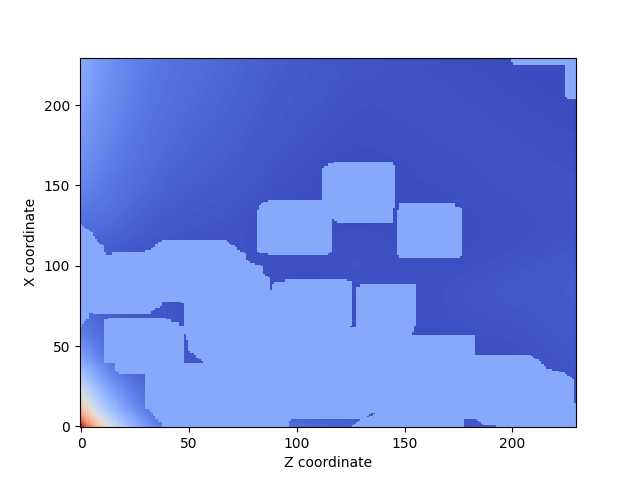
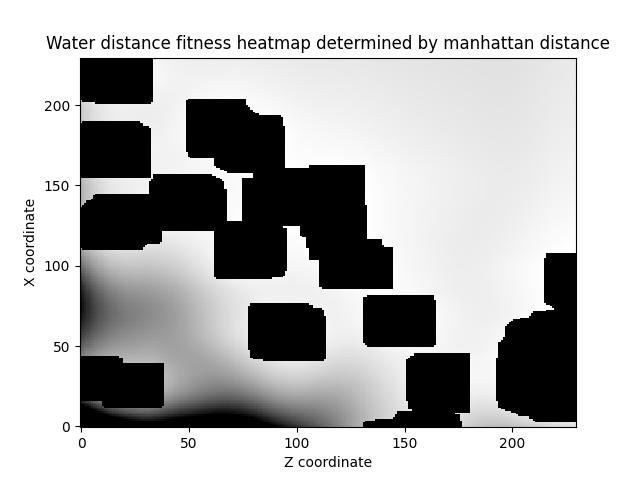
Added improved graphing function, and house distance function

diff --git a/classes/Graph.py b/classes/Graph.py
@@ -133,7 +133,7 @@ class graph:
                     self.tile_map[x_value][z_value].manhattan_distance_to_water,
                 )
         value = cum_distance / (x_value * z_value)
-        return value
+        return min(value, MAXIMUM_WATER_DISTANCE_PENALTY)
 
     def calculate_distance_from_houses(
         self, location: GridLocation, building_radius=MAX_BUILDING_RADIUS
@@ -154,7 +154,10 @@ class graph:
         )
 
         if PENALTY:
-            return MAXIMUM_HOUSE_DISTANCE_PENALTY
+            # calculate the closest house centre.
+            nearest_location = calculate_nearest_house(g=self, location=location)
+            adjusted_distance = manhattan(nearest_location, location)
+            return MAXIMUM_HOUSE_DISTANCE_PENALTY - adjusted_distance
 
         cum_distance = 0
         for building_location in self.buildings_centres:
@@ -163,13 +166,13 @@ class graph:
         value = cum_distance / len(self.buildings_centres)
         if value == 0:
             print("Yikes")
-        return value
+        return min(value, MAXIMUM_HOUSE_DISTANCE_PENALTY)
 
     def _calculate_penalty(self, location, building_radius, type: fitness_functions):
         coords = self._calc_coordinates(location, building_radius)
 
         if type == fitness_functions.HOUSE_DISTANCE:
-            for building_coords in self.buildings_coords:
+            for building_coords in self.get_buildings_coords():
                 if rectangles_overlap(coords, building_coords):
                     return True
 
@@ -251,6 +254,15 @@ class graph:
                 g=self,
             )
 
+    def get_building_centres(self) -> list:
+        return list(set(self.buildings_centres.copy()))
+
+    def get_building_tiles(self) -> list:
+        return list(set(self.building_tiles.copy()))
+
+    def get_buildings_coords(self) -> list:
+        return list(set(self.buildings_coords.copy()))
+
 
 def manhattan(a_value, b_value):
     """Calculate manhattan distance value between two vectors
@@ -276,7 +288,7 @@ def surface_plot(matrix, **kwargs):
 
 
 def show_plt(m):
-    (fig, ax, surf) = surface_plot(m, cmap=plt.cm.coolwarm)
+    (fig, ax, surf) = surface_plot(m, cmap=plt.cm.binary)
 
     fig.colorbar(surf)
 
@@ -287,17 +299,18 @@ def show_plt(m):
     plt.show()
 
 
-def show_2d_heatmap(arr: np.array, filename: str):
+def show_2d_heatmap(arr: np.array, filename: str, title: str = "test123"):
     arr = arr.T  # transpose x and z axis
     heatmap, ax = plt.subplots()
     im = ax.imshow(
         arr,
-        cmap=plt.cm.coolwarm,
+        cmap=plt.cm.binary,
         interpolation="nearest",
         origin="lower",
         aspect="auto",
     )
     ax.set(xlabel="Z coordinate", ylabel="X coordinate")
+    ax.set_title(title)
     heatmap.savefig(IMAGE_DIR_FOLD + "/" + filename + ".png")
 
 
@@ -316,7 +329,8 @@ def run_fitness_for_all_coords(fitness: fitness_functions, g: graph, show_plot=F
         w_b_m = mm_scale(w_b_m)
         if show_plot:
             show_plot(w_b_m)
-        show_2d_heatmap(w_b_m, fitness.value)
+        title: str = "Water Boolean heatmap"
+        show_2d_heatmap(w_b_m, fitness.value, title)
         return w_b_m
 
 
@@ -334,34 +348,42 @@ def run_bounded_fitness_for_all_coords(
     show_plot=False,
 ):
     fitness_map = []
-    # adjust the house fitness map with a mock house at 20, 20), with a build radius of 7
-    location = (20, 20)
-    coords: Tuple[int, int, int, int] = (
-        cut_out_bounds(location[0] - building_radius, g.x),
-        cut_out_bounds(location[1] - building_radius, g.z),
-        cut_out_bounds(location[0] + building_radius, g.x),
-        cut_out_bounds(location[1] + building_radius, g.z),
+
+    add_mock_location(
+        g=g,
+        building_radius=building_radius,
+        location=(20, 20),
     )
-    building_tiles = get_build_coord(location=location, building_radius=building_radius)
-    g.building_tiles.extend(building_tiles)
-    g.buildings_centres.append(location)
-    g.buildings_coords.append(coords)
+
+    add_mock_location(
+        g=g,
+        building_radius=building_radius,
+        location=(200, 200),
+    )
+
     for x_value in range(building_radius, g.x - building_radius):
         tile = []
         for z_value in range(building_radius, g.z - building_radius):
             if fitness == fitness_functions.WATER_DISTANCE:
+                title: str = (
+                    "Water distance fitness heatmap determined by manhattan distance"
+                )
                 tile.append(
                     g.calcuate_water_distance(
                         (x_value, z_value), building_radius=building_radius
                     )
                 )
             if fitness == fitness_functions.HOUSE_DISTANCE:
+                title: str = (
+                    "House distance fitness heatmap determined by manhattan distance"
+                )
                 tile.append(
                     g.calculate_distance_from_houses(
                         (x_value, z_value), building_radius=building_radius
                     )
                 )
             if fitness == fitness_functions.FLATNESS:
+                title: str = "Flatness fitness heatmap determined by standard deviation"
                 tile.append(
                     g.calculate_flatness_from_location(
                         (x_value, z_value), building_radius=building_radius
@@ -372,8 +394,21 @@ def run_bounded_fitness_for_all_coords(
     f_m = mm_scale(f_m)
     if show_plot:
         show_plt(f_m)
-    show_2d_heatmap(f_m, fitness.value)
+    show_2d_heatmap(f_m, fitness.value, title)
     return f_m
+
+
+def add_mock_location(g: graph, building_radius: int, location: tuple[int, int]):
+    coords: Tuple[int, int, int, int] = (
+        cut_out_bounds(location[0] - building_radius, g.x),
+        cut_out_bounds(location[1] - building_radius, g.z),
+        cut_out_bounds(location[0] + building_radius, g.x),
+        cut_out_bounds(location[1] + building_radius, g.z),
+    )
+    building_tiles = get_build_coord(location=location, building_radius=building_radius)
+    g.building_tiles.extend(building_tiles)
+    g.buildings_centres.append(location)
+    g.buildings_coords.append(coords)
 
 
 def print_all_fitness_graphs(g: graph):
@@ -384,5 +419,18 @@ def print_all_fitness_graphs(g: graph):
     fitness_maps = []
     for fitness in fitness_functions:
         fitness_maps.append(g.visualise(fitness=fitness))
-    f_m = np.add(fitness_maps[0], fitness_maps[1])
-    show_plt(f_m)
+    f_m = np.array([fitness_maps[0], fitness_maps[1], fitness_maps[2]])
+    fm = f_m.sum(axis=0)
+    show_plt(fm)
+    show_2d_heatmap(fm, "all_fitness", "Layered Fitness Heatmap")
+
+
+def calculate_nearest_house(g: graph, location: tuple[int, int]) -> tuple[int, int]:
+    house_centres = g.get_building_centres()
+    manhattan_distances = []
+    for house_centre in house_centres:
+        manhattan_distances.append(manhattan(location, house_centre))
+
+    return house_centres[
+        min(range(len(manhattan_distances)), key=manhattan_distances.__getitem__)
+    ]

diff --git a/main.py b/main.py
@@ -9,11 +9,11 @@ from classes.ENUMS.biome_ids import biome_regions
 from classes.ENUMS.block_codes import block_codes
 from classes.Timer import Timer
 from classes.building_locations import BuildingLocations
-from classes.Graph import graph
+from classes.Graph import graph, print_all_fitness_graphs
 from classes.http_interface import get_world_state
 from classes.Location_Genome import LocationGenome
 from classes.Population import Population
-from classes.misc_functions import rectangles_overlap
+from classes.misc_functions import rectangles_overlap, teleport_player
 from constants import (
     AREA,
     BIOME_BLOCK_MAP_DICTIONARY,
@@ -108,9 +108,7 @@ def remove_foliage(g: graph, buildings: BuildingLocations):
                     BLOCK_BATCH_SIZE,
                 )
 
-    # The correct way to TP the character :D
-    tp_string = "tp " + MINECRAFT_USERNAME + " " + str(x_min) + " 100 " + str(z_min)
-    runCommand(tp_string)
+    teleport_player(x_value=x_min, y_value=100, z_value=z_min)
 
 
 def generate_building_location_through_genetic_algorithm(

diff --git a/classes/Population.py b/classes/Population.py
@@ -126,7 +126,7 @@ class Population:
                     member.water_distance_fitness = water_fitness
                     water_distance_fitness.append(water_fitness)
 
-        if len(self.graph.building_tiles) != 0:
+        if len(self.graph.get_building_tiles()) != 0:
             for member in self.members:
                 distance_fitness = self.graph.calculate_distance_from_houses(
                     location=(member.x, member.z),
@@ -154,7 +154,7 @@ class Population:
         for i in range(len(self.members)):
             if len(self.graph.water_tiles) != 0:
                 self.members[i].fitness += water_distance_fitness[i]
-            if len(self.graph.building_tiles) != 0:
+            if len(self.graph.get_building_tiles()) != 0:
                 self.members[i].fitness += (
                     building_distance_fitness[i] / BUILDING_DISTANCE_WEIGHTING
                 )

diff --git a/constants.py b/constants.py
@@ -11,8 +11,8 @@ BUILDING_DISTANCE_WEIGHTING: float = 2
 FLATNESS_FITNESS_WEIGHTING: float = 1
 DEFAULT_MUTATION_RATE: float = 1 / 6
 DEFAULT_POPULATION_SIZE: int = 5
-GENERATIONS: int = 40
-BUILDING_NUMBER: int = 13
+GENERATIONS: int = 100
+BUILDING_NUMBER: int = 10
 POPULATION_SIZE: int = 100
 AREA: tuple[int, int, int, int] = (
     0,
@@ -24,7 +24,7 @@ WATER_SEARCH_RADIUS: int = (
     MAX_BUILDING_RADIUS * 2
 )  # How far to search from building location for water, should be larger than MAX_BUILDING_RADIUS
 MAXIMUM_WATER_DISTANCE_PENALTY: int = MAX_BUILDING_RADIUS
-MAXIMUM_HOUSE_DISTANCE_PENALTY: int = AREA[2] + AREA[3]
+MAXIMUM_HOUSE_DISTANCE_PENALTY: int = max(AREA[2], AREA[3])
 IMAGE_DIR_FOLD: str = "data/images"
 
 DEBUG_DRAW_WORKINGS: bool = False  # yellow/orange-first in frontier, light blue-candidate, NOT_POSSIBLE: Gray-drop or black

diff --git a/classes/misc_functions.py b/classes/misc_functions.py
@@ -1,6 +1,7 @@
 from classes.Types import GridLocation
 from typing import Tuple
 from classes.ENUMS.orientations import orientations
+from constants import MINECRAFT_USERNAME
 from vendor.gdmc_http_client.interfaceUtils import runCommand
 
 
@@ -88,3 +89,17 @@ def draw_sign(
         "Text3:'\"" + text_line_3 + "\"', "
         "Text4:'\"" + text_line_4 + "\"'}"
     )
+
+
+def teleport_player(x_value: int, y_value: int, z_value: int):
+    tp_string = (
+        "tp "
+        + MINECRAFT_USERNAME
+        + " "
+        + str(x_value)
+        + " "
+        + str(y_value)
+        + " "
+        + str(z_value)
+    )
+    runCommand(tp_string)

diff --git a/classes/ENUMS/fitness.py b/classes/ENUMS/fitness.py
@@ -8,5 +8,5 @@ from classes.ENUMS.block_codes import ExtendedEnum
 class fitness_functions(ExtendedEnum):
     WATER_DISTANCE = "water_distance"
     FLATNESS = "flatness"
-    WATER_BOOLEAN = "water_boolean"
     HOUSE_DISTANCE = "house_distance"
+    WATER_BOOLEAN = "water_boolean"
